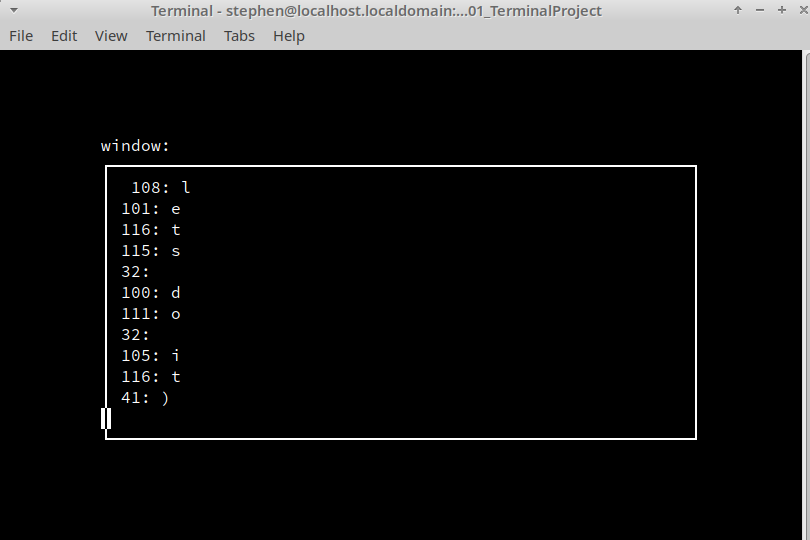
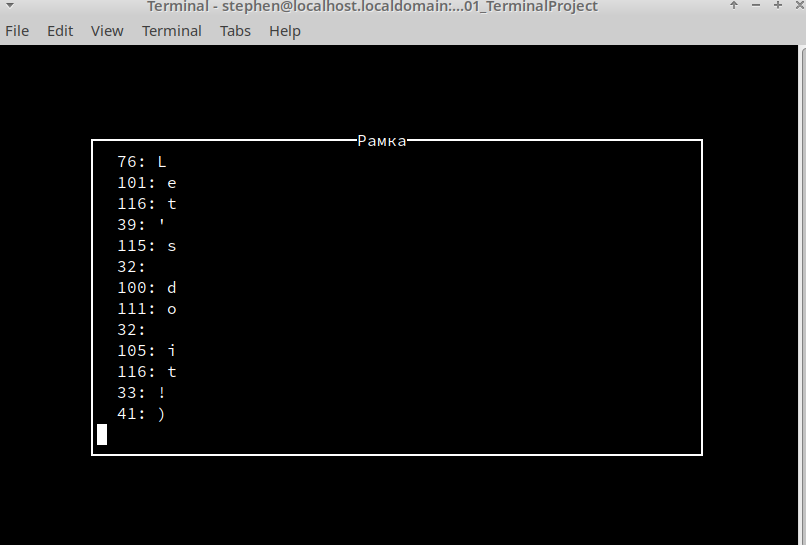
fix Chapter1 pt2

Changed region(s): [[0.0931, 0.237, 0.8685, 0.8593], [0.0, 0.0, 1.0, 0.1185], [0.8995, 0.0, 1.0, 0.0296]]

diff --git a/Methodical_manual/1_Terminal_Project/1. Работа с терминалом; пример простого проекта.md b/Methodical_manual/1_Terminal_Project/1. Работа с терминалом; пример простого проекта.md
@@ -228,7 +228,7 @@ admin@localhost:~> dialog --yesno "Пробная программа" 30 40
 Идея работы с библиотекой такая: считаем, что у нас есть экран - прямоугольник терминального окна. Мы его как-то заполняем, обновляем, и экран у нас отображается. На экране можно создавать окна, настраивать их и работать с ними.
 
 Пример:
-```
+```C
 #include <curses.h>
 main ()
 {
@@ -247,7 +247,7 @@ main ()
 
 Компиляция программы проводится с помощью флага присоединения библиотеки `-lcurses`
 
-```
+```console
 cc curses.c -lcurses -o curses
 ./curses
 ```
@@ -258,46 +258,44 @@ cc curses.c -lcurses -o curses
 
 На практике нам хочется уметь работать не только с английскими символами, соответственно, нам нужна будет обработка локалей(переводов, если не вдаваться в подробности), поэтому устанавливаем библиотеку `locale.h` и компилируем теперь с флагом библиотеки `-lncursesw`
 
-
-***TODO:*** 
-==Исправить проблему примера: печатаем границы окна в окне, отчего нужно перерисовывать границу, она едет вместе со скроллингом==
-
 Следующим примером разберём встроенные окна. Работа с ними ведётся через указатели на специальную структуру WINDOW.
 
-```
+```C
 #include <curses.h>
 #include <locale.h>
 
 int main(void) {
-    WINDOW* win;
-    char c = 0;
+	WINDOW* win;
+	WINDOW* frame;
+	char c = 0;
 
-    setlocale(LC_ALL, "");
+	setlocale(LC_ALL, "");
 
-    initscr();
-    noecho();
-    cbreak();
+	initscr();
+	noecho();
+	cbreak();
 
-    move(4, 10);
-    printw("window:");
-    refresh();
+	move(4, 10);
+	printw("window:");
+	refresh();
 
-    win = newwin(LINES - 10, COLS - 20, 5, 10);
-    keypad(win, TRUE);
-    scrollok(win, TRUE);
+	frame = newwin(LINES - 8, COLS - 18, 4, 9);
+    box(frame, 0, 0);
+    mvwaddstr(frame, 0, (int)((COLS - 25) / 2), "Рамка");
+    wrefresh(frame);
 
-    box(win, 0, 0); // TODO
-    wmove(win, 1, 1);
+	win = newwin(LINES - 10, COLS - 20, 5, 10);
+	keypad(win, TRUE);
+	scrollok(win, TRUE);
 
-    while((c = wgetch(win)) != 27) {
-        wprintw(win, "  %d: %s\n", c, keyname(c));
-        box(win, 0, 0);
-        wrefresh(win);
-    }
+	while((c = wgetch(win)) != 27) {
+		wprintw(win, "  %d: %s\n", c, keyname(c));
+		wrefresh(win);
+	}
 
-    delwin(win);
-    endwin();
-    return 0;
+	delwin(win);
+	endwin();
+	return 0;
 }
 
 
@@ -305,12 +303,13 @@ int main(void) {
 
 Здесь у нас снова новые функции из библиотеки:
 1. Создание и удаление экранного окна происходит парными функциями `newwin()` и `delwin()`
-2. С помощью `keypad()` и `scrollok()` задаём свойства окна: взаимодействие с клавиатурой и возможность его листать
-3. `box()` рисует для нашего окна красивую каёмку
-4. Также в программе используются оконные аналоги чтения и обновления экрана.
+2. Мы создаём два окна, второе наложено на первое (можно делать вложенные, но это сложнее)
+3. С помощью `keypad()` и `scrollok()` задаём свойства окна: взаимодействие с клавиатурой и возможность его листать
+4. `box()` рисует для нашего окна красивую рамку (рисуем рамку в «нижнем» окне, а печатаем символы на «верхнем», чтобы пролистывание не двигало нам рамку)
+5. Также в программе используются оконные аналоги чтения и обновления экрана.
 
 Что же мы получаем? 
-```
+```console
 cc big_curses.c -lncursesw -o big_curses
 ./big_curses
 ```
@@ -327,7 +326,7 @@ cc big_curses.c -lncursesw -o big_curses
 Мейк-файл - это сборник рецептов по тому, как собирать из одних исходников другие, из других - третьи итд
 Рассмотрим вариант ***Makefile*** нашей программы. По своей структуре он состоит из команд и переменных *Shell*.  Обращение к командам выполняется через задание *целей*, внутри которых можно тоже генерировать объекты и связанные имена
 
-```
+```Makefile
 CC=cc
 LDLIBS=-lncursesw
 CFLAGS=-Wall
@@ -347,7 +346,7 @@ CFLAGS=-Wall
 
 Что же мы получаем? Удобный интерфейс для компиляции файлов, который сам проверяет актуальность сборки и делает её лишь по необходимости
 
-```
+```console
 admin@localhost:~/LinuxAppDev/01_TerminalProject> make curses
 make: 'curses' is up to date.
 admin@localhost:~/LinuxAppDev/01_TerminalProject> make big_curses
@@ -362,12 +361,15 @@ admin@localhost:~/LinuxAppDev/01_TerminalProject>
 
 Также в нём есть огромное количество прописанных под специальные имена переменных паттерны обработки, благодаря чему можно просто задавать переменные и пользоваться встроенными алгоритмами
 
-```
+```Makefile
 SRC=curses.c
 EXE=curses
 CC=cc
 LDLIBS=-lncursesw
 CFLAGS=-Wall
+
+%:  %.c
+    $(CC) $(CFLAGS) $< $(LDLIBS) -o $@
 
 all:    curses
 
@@ -375,7 +377,7 @@ clean:
     rm -f o oo ${EXE} *.o
 ```
 
-```
+```console
 admin@localhost:~/LinuxAppDev/01_TerminalProject> make clean
 rm -f o oo curses *.o
 admin@localhost:~/LinuxAppDev/01_TerminalProject> make
